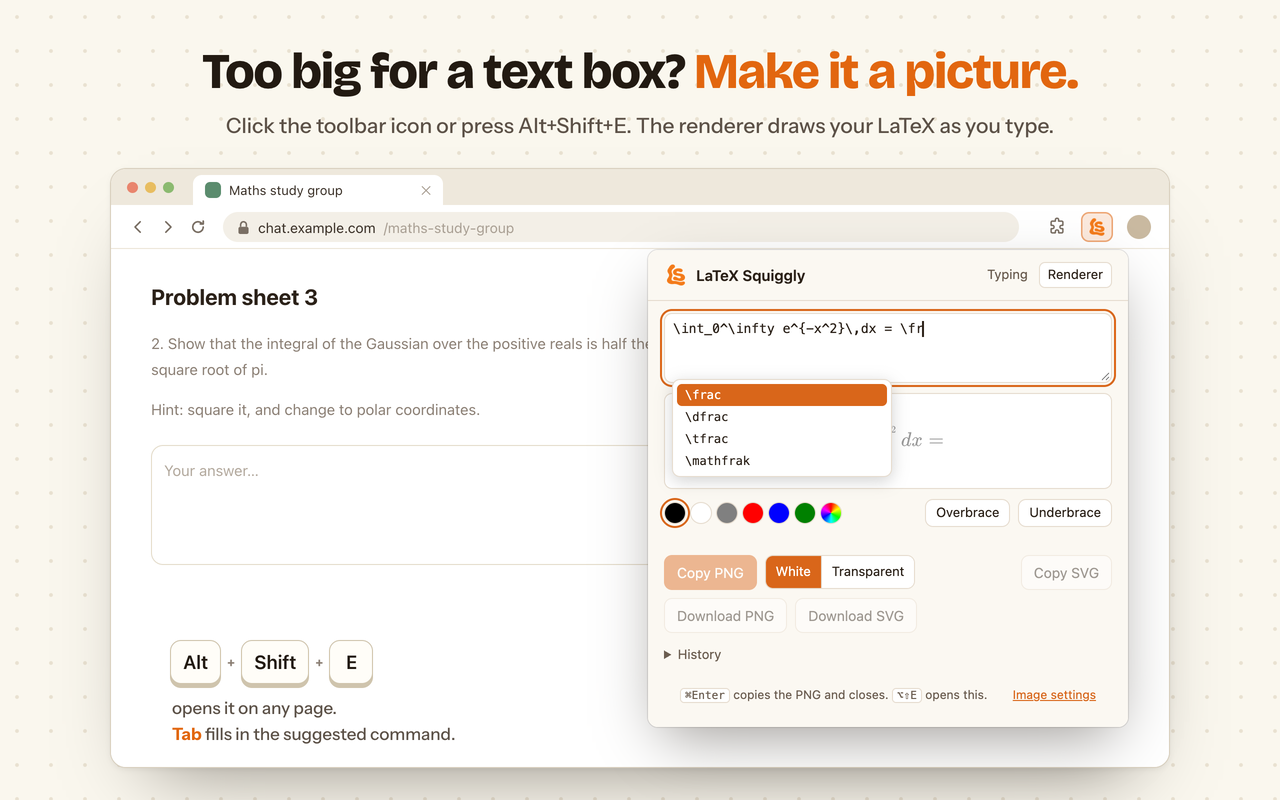
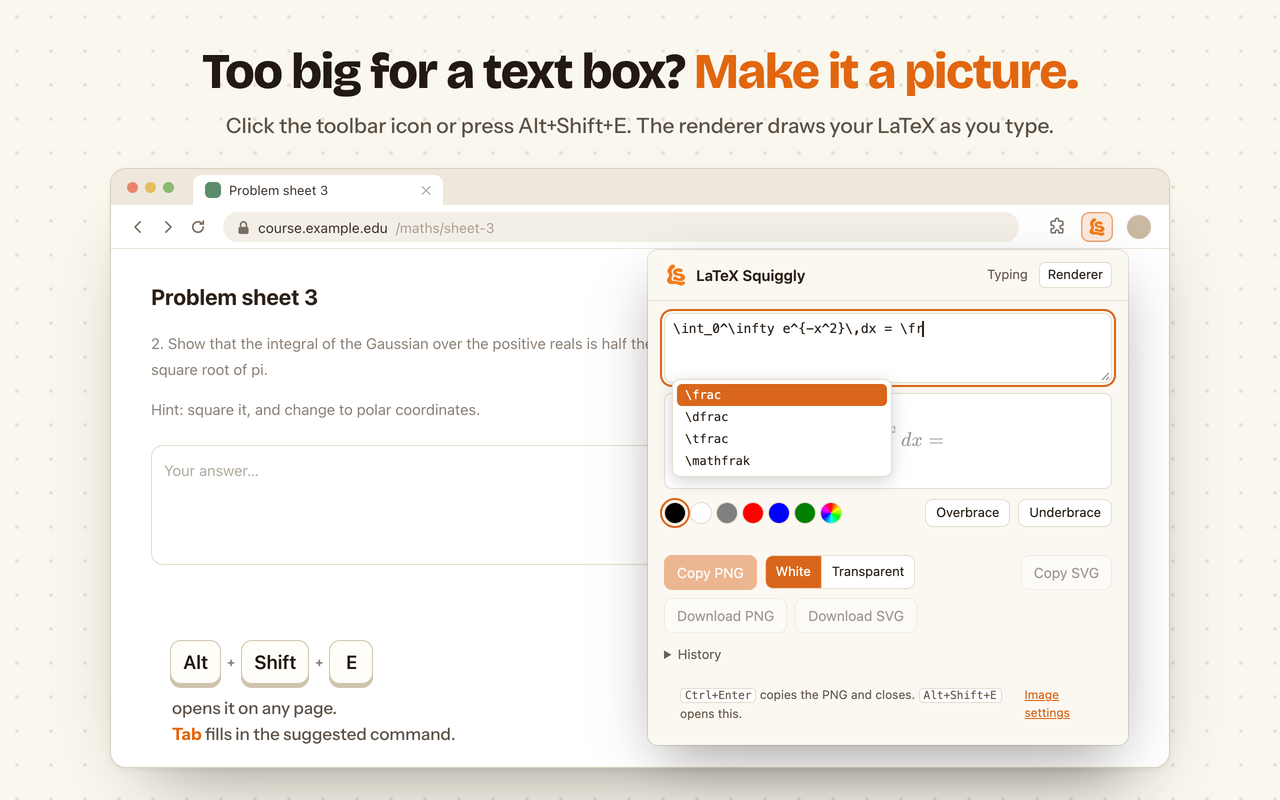
Lead the store listing with right-click to render, in a shorter description
The description is cut from about 2,400 characters to 940. Its second
paragraph is the right-click item: select LaTeX on a page, Render selection
as image, copy the PNG. The graphics table now points at the new store
images, with the right-click screenshot second.

The images are corrected too: the problem-sheet screenshot's tab and
address match its page, the forum post is titled for the sum of squares it
shows, converted characters in chat bubbles are white, the popups show the
Alt+Shift shortcuts that the keycaps beside them show, and the Mac demo
shows the right weekday and pastes at the size it was previewed.

Changed region(s): [[0.5, 0.8438, 0.875, 0.9375], [0.2188, 0.2812, 0.4062, 0.3125], [0.1875, 0.2188, 0.2812, 0.25]]

diff --git a/chrome/STORE.md b/chrome/STORE.md
@@ -58,27 +58,22 @@ access. Updates that do not add permissions are usually faster.
 
 **Description**
 
+Short on purpose: the first two lines are what most people read, so they say
+what it does and lead with the renderer's right-click item.
+
 ```
-Type LaTeX in any text box on the web and get real characters. \alpha becomes α, \Rightarrow becomes ⇒, and $x^2$ becomes x², right where you typed it, as soon as you press space.
+Type LaTeX in any text box and get real characters: \alpha becomes α and $x^2$ becomes x² the moment you press space.
 
-The result is ordinary Unicode text, not an image, so it survives copying and pasting into chat messages, emails, comments and forms.
+Select LaTeX on any page, right-click, and choose Render selection as image. It opens already drawn: copy it as a PNG and paste it into a chat, an email, a slide or a doc.
 
-For what Unicode cannot write, such as fractions, matrices and braces, the popup's renderer turns LaTeX into an image: type it, see it drawn as you type, and copy it as a PNG to paste into Google Docs, Slack or an email.
+• 202 symbols, plus superscripts, subscripts, fractions and roots
+• The renderer: live preview, command suggestions, colours, braces, a transparent background and a history. Alt+Shift+E opens it, Ctrl+Enter copies
+• If something can't be written exactly in plain text, a short note says what it did
+• Quiet on Overleaf, other LaTeX sites and code editors. Alt+Shift+L pauses it anywhere
+• Works in text boxes, comment fields and Google Docs (not Sheets, Slides or the address bar)
+• Private: nothing you type is stored or sent, and it makes no network requests
 
-• 202 symbols: Greek letters, operators, relations, arrows, set theory, logic
-• Superscripts and subscripts inside dollars: $x^2$, $a_1$, $\int_0^1$
-• Fractions, roots, binomials and \mathbb{R}
-• Honest when it has to approximate: if something cannot be written exactly in plain text, a short note says what it did, and if it cannot be written at all, your text is left as typed
-• Stays quiet on Overleaf and other LaTeX editors, in code editors, and in password fields, and anywhere you switch it off
-• In ordinary text boxes, undo brings the command back
-• The toolbar icon turns grey wherever it is not converting, and Alt+Shift+L pauses it anywhere
-• Renderer: maths-mode LaTeX to PNG or SVG, drawn by MathJax inside the extension, with a white or transparent background, colours, your own \newcommand definitions, command autocomplete and a history. Alt+Shift+E opens it, or right-click selected LaTeX and choose Render selection as image; Ctrl+Enter copies
-
-Where it works: text boxes, search boxes, comment fields and rich text editors on web pages. Google Docs documents work too. Not in Google Sheets or Slides, and not in Chrome's address bar or on Chrome's own pages, which no extension can reach.
-
-Privacy: to recognise a command, the extension keeps the last few characters you typed in a text box, in memory only, and forgets them when you click or change fields. Nothing you type in a web page is saved or sent anywhere, and the extension makes no network requests. Your settings, and the last LaTeX you typed into the renderer, are stored with Chrome.
-
-Also available as a menu bar app for macOS and a tray app for Windows, which work in every app, not only the browser.
+Also a free menu bar app for Mac and tray app for Windows, which work in every app.
 ```
 
 **Category:** Productivity (or Tools, whichever the dashboard offers).
@@ -90,9 +85,9 @@ Also available as a menu bar app for macOS and a tray app for Windows, which wor
 | Field | File |
 |---|---|
 | Store icon (128×128) | `chrome/icons/icon-128.png` |
-| Screenshots (1280×800) | `chrome/store/screenshot-1-typing.png`, `screenshot-2-notice.png`, `screenshot-3-welcome.png`, `screenshot-4-renderer.png`, `screenshot-5-paste.png` |
-| Small promo tile (440×280) | `chrome/store/promo-440x280.png` |
-| Marquee promo tile (1400×560), optional | `chrome/store/marquee-1400x560.png` |
+| Screenshots (1280×800) | `chrome/store/chrome-v2/screenshot-1-type-anywhere.png`, `screenshot-3-right-click.png`, `screenshot-2-renderer.png`, `screenshot-4-paste-anywhere.png`, `screenshot-5-control-privacy.png`, in that order, so right-click to render is second |
+| Small promo tile (440×280) | `chrome/store/chrome-v2/promo-small-440x280.png` |
+| Marquee promo tile (1400×560), optional | `chrome/store/chrome-v2/promo-marquee-1400x560.png` |
 | Promo video, optional | A YouTube link. Upload `build/latex-squiggly-demo.webm` to YouTube (Unlisted is enough) and paste its address. |
 
 The screenshots are real: the extension typing into a page, not a mock-up.
